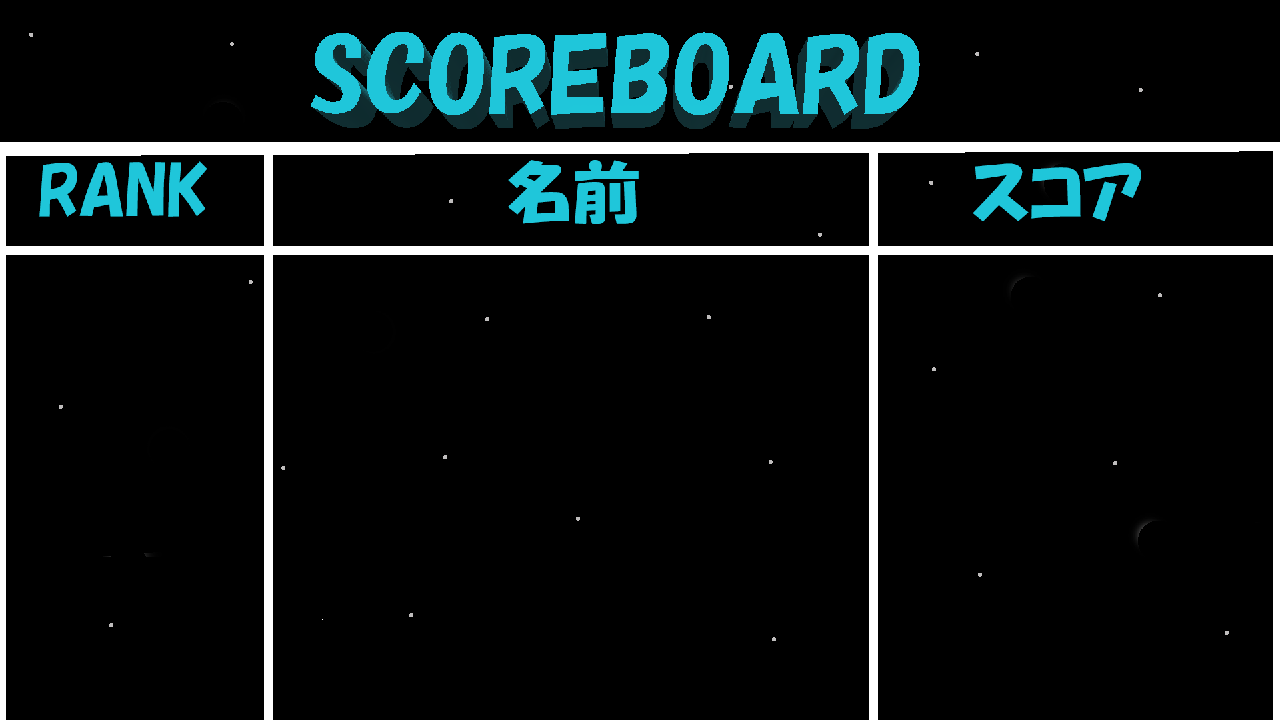
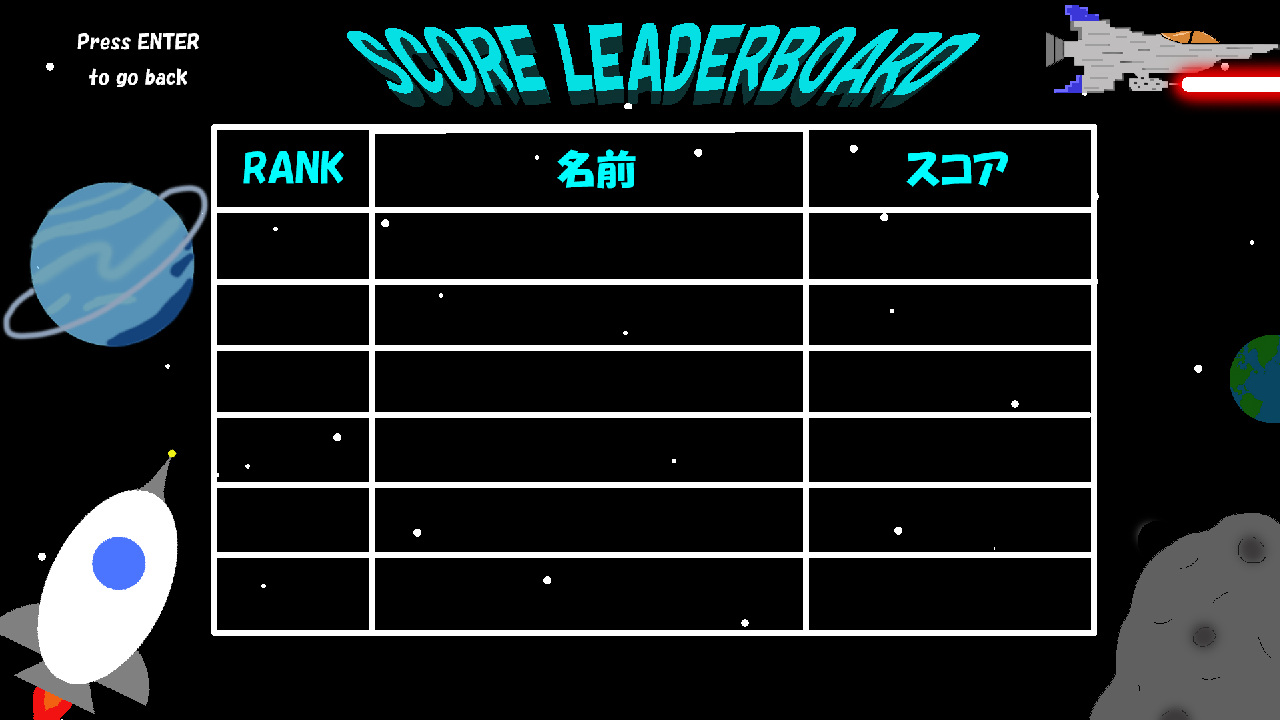
yy

Changed region(s): [[0.0, 0.0, 1.0, 1.0], [0.0625, 0.0306, 0.1562, 0.1222]]

diff --git a/SourceCode/scene_title.cpp b/SourceCode/scene_title.cpp
@@ -114,24 +114,15 @@ void title_update()
 
             break;
         }
-        if ((selecting == 3) && TRG(0) & PAD_START) {
+        if ((selecting == 3) && TRG(0) & PAD_START) {//enter scoreboard
             sound::play(4, 2);
-       
-            sprbg = sprite_load(L"./Data/Images/score.png");
-      
-            selecting = 5;
-
-            break;
-        }
-        if ((selecting == 5) && TRG(0) & PAD_START) {
-            sound::play(4, 2);
-          
-            sprbg = sprite_load(L"./Data/Images/back1.png");
-
             selecting = 1;
+            nextScene = SCENE_SCOREBOARD;
+      
 
             break;
         }
+      
         if ((selecting == 5) && TRG(0) & PAD_SELECT) {
             sound::play(4, 2);
             sprbg = sprite_load(L"./Data/Images/back1.png");
@@ -195,20 +186,19 @@ void title_render()
     GameLib::clear(0.3f, 0.5f, 1.0f);
 
     // タイトルの文字
-   
+
 
     // "Push Enter Key" 点滅
-    
+
 
     sprite_render(sprbg, 0, 0);
-    if (selecting == 5) {
-        font::textOut(4, "ENTER to continue", VECTOR2(390, 670), VECTOR2(1.4f, 1.4f));
-    }
-    if (selecting != 5) {
-        sprite_render(sprarrow, 460, 590, -0.3f, 0.3f);
-        sprite_render(sprarrow, 710, 590, 0.3f, 0.3f);
-        font::textOut(4, "A   |   D", VECTOR2(460, 590), VECTOR2(1.4f, 1.4f));
-        font::textOut(4, "BACKSPACE to back", VECTOR2(410, 630), VECTOR2(1.4f, 1.4f));
-        font::textOut(4, "ENTER to continue", VECTOR2(410, 670), VECTOR2(1.4f, 1.4f));
-    }
+  
+
+    sprite_render(sprarrow, 460, 590, -0.3f, 0.3f);
+    sprite_render(sprarrow, 710, 590, 0.3f, 0.3f);
+    font::textOut(4, "A   |   D", VECTOR2(460, 590), VECTOR2(1.4f, 1.4f));
+    font::textOut(4, "BACKSPACE to back", VECTOR2(410, 630), VECTOR2(1.4f, 1.4f));
+    font::textOut(4, "ENTER to continue", VECTOR2(410, 670), VECTOR2(1.4f, 1.4f));
+
+
 }

diff --git a/SourceCode/scoreboard.cpp b/SourceCode/scoreboard.cpp
@@ -1,0 +1,94 @@
+#include "all.h"
+int scoreboard_state;
+int scoreboard_timer;
+
+Sprite* sprSB;
+
+//--------------------------------------
+//  初期設定
+//--------------------------------------
+void scoreboard_init()
+{
+    scoreboard_state = 0;
+    scoreboard_timer = 0;
+}
+
+//--------------------------------------
+//  終了処理
+//--------------------------------------
+void scoreboard_deinit()
+{
+    music::stop(0);
+
+   
+    safe_delete(sprSB);
+   
+}
+
+//--------------------------------------
+//  タイトルの更新処理
+//--------------------------------------
+void scoreboard_update()
+{
+    switch (scoreboard_state)
+    {
+    case 0:
+        //////// 初期設定 ////////
+
+   
+
+        sprSB = sprite_load(L"./Data/Images/score.png");
+     
+        scoreboard_state++;
+        /*fallthrough*/
+
+    case 1:
+        //////// パラメータの設定 ////////
+
+        GameLib::setBlendMode(Blender::BS_ALPHA);
+
+      
+        music::setVolume(0, 0.15f);
+
+        scoreboard_state++;
+        /*fallthrough*/
+
+    case 2:
+        //////// 通常時 ////////
+      
+        
+        if (TRG(0) & PAD_START)
+        {
+            sound::play(4, 2);
+            music::stop(2);
+            nextScene = SCENE_TITLE;
+            break;
+        }
+        break;
+
+
+    }
+
+
+    scoreboard_timer++;
+}
+
+//--------------------------------------
+//  タイトルの描画処理
+//--------------------------------------
+void scoreboard_render()
+{
+    // 画面を青で塗りつぶす
+    GameLib::clear(0.3f, 0.5f, 1.0f);
+
+    // タイトルの文字
+
+
+    // "Push Enter Key" 点滅
+
+
+    sprite_render(sprSB, 0, 0);
+
+   
+    font::textOut(4, "Press ENTER/BACKSPACE to go back", VECTOR2(390, 670), VECTOR2(1.0f, 1.0f));
+}

diff --git a/SourceCode/all.h b/SourceCode/all.h
@@ -49,6 +49,7 @@
 #include "../consumable.h"
 #include "item.h"
 #include "gameover.h"
+#include "scoreboard.h"
 // namespace
 using namespace GameLib;
 using namespace input;
